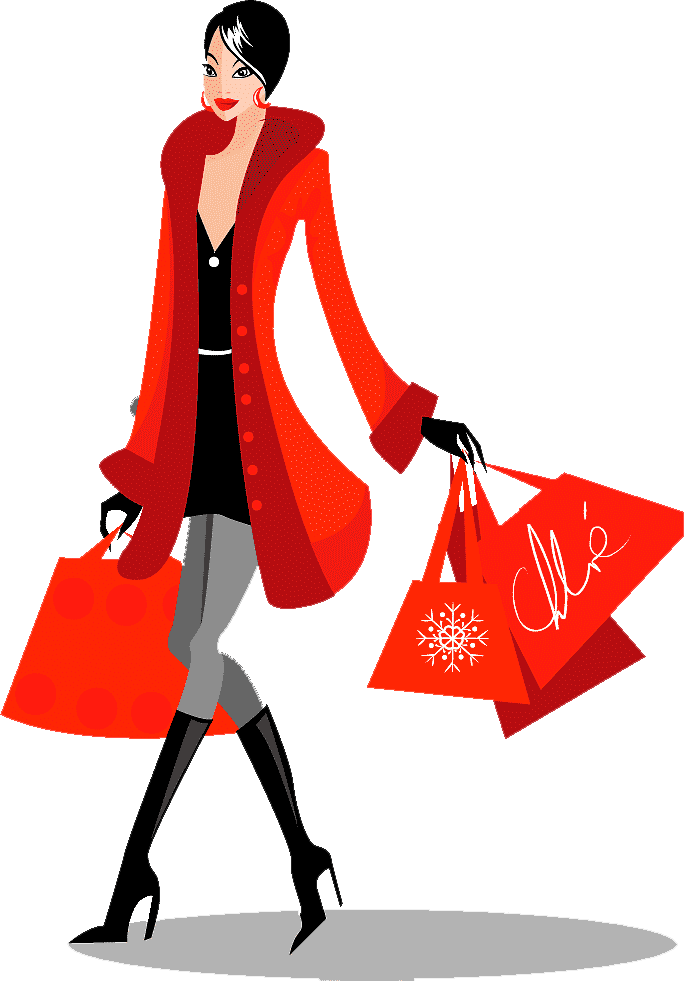
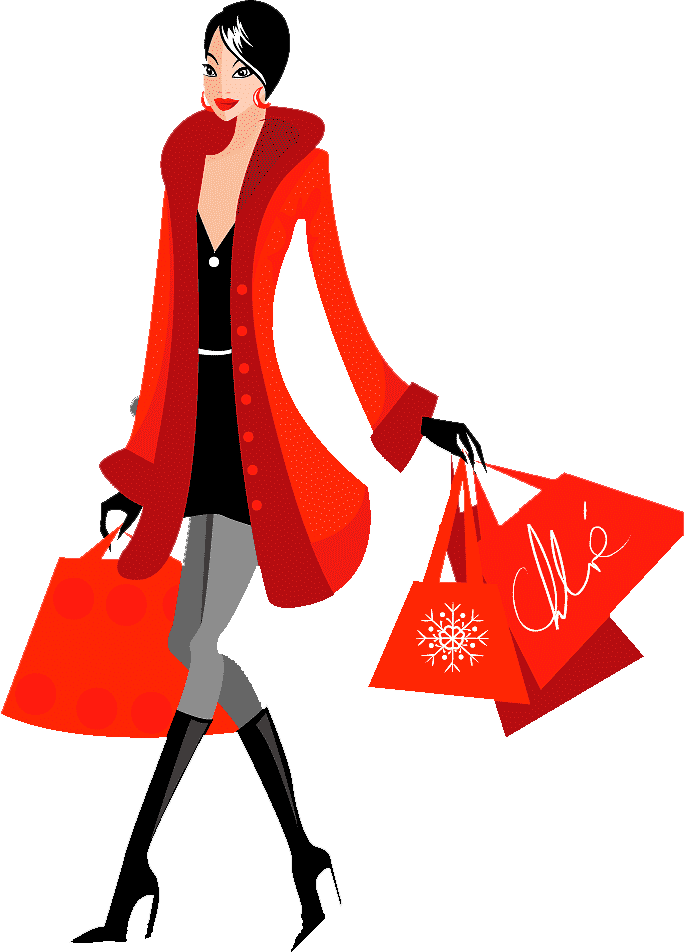
v18

diff --git a/src/components/Mujer.jsx b/src/components/Mujer.jsx
@@ -40,8 +40,8 @@ const Mujer = ({ dama: { title, news, subtitle, image } }) => {
             {/* Imagen debajo del subtítulo */}
             <img
               src={image}
-              alt="Imagen decorativa"
-              className="mt-5 w-[350px] max-w-full h-auto object-cover rounded-lg shadow-ms"
+              alt="imagen-decorativa"
+              className="imagen-decorativa mt-5 w-[300px] max-w-full h-auto object-cover rounded-lg shadow-ms"
             />
           </div>
         </div>

diff --git a/src/index.css b/src/index.css
@@ -98,7 +98,7 @@
 
   .hero-image {
     @apply w-auto h-[35vh] lg:h-[45vh] md:h-[35vh] sm:h-[18vh] xsm:h-[25vh];
-    max-width: 83%;
+    max-width: 85%;
     /* Aumenta el tamaño de la imagen al 90% del contenedor */
   }
 
